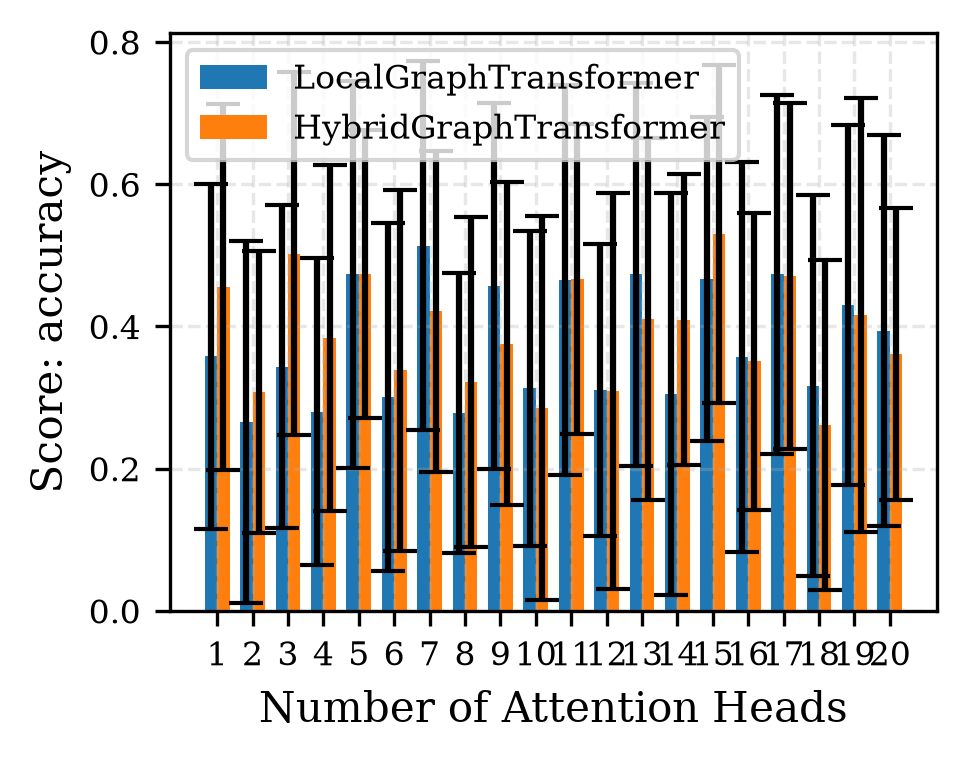
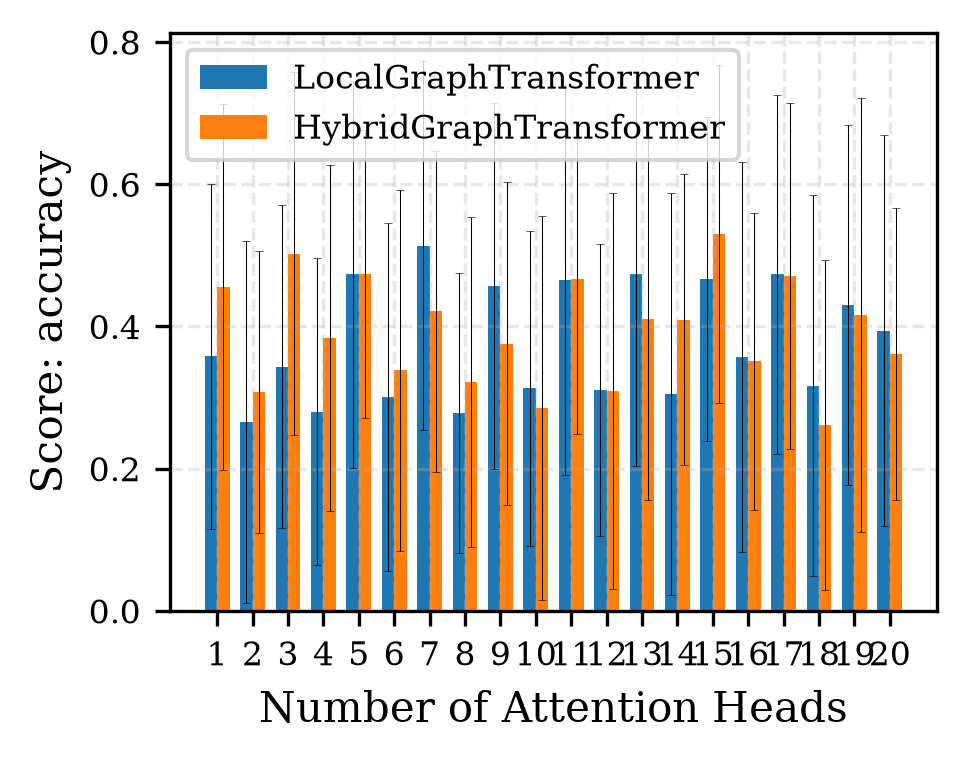
fix to thick error line on bar charts

Changed region(s): [[0.1861, 0.0604, 0.9307, 0.815], [0.7135, 0.0604, 0.7446, 0.0906], [0.2172, 0.1207, 0.2482, 0.1509]]

diff --git a/src/visualize.py b/src/visualize.py
@@ -74,7 +74,7 @@ def create_final_figure(
             std_by_head.append(result[0][1][metric_index])
             heads.append(result[1])
         offset = (i - 0.5) * bar_width
-        ax.bar(np.array(heads) + offset, results_by_head, bar_width, label=model_name, yerr=std_by_head, capsize=4)
+        ax.bar(np.array(heads) + offset, results_by_head, bar_width, label=model_name, yerr=std_by_head, capsize=1, error_kw={"elinewidth": 0.25, "capthick": 0.15})
     
     ax.set_xlabel("Number of Attention Heads")
     ax.set_ylabel(f"Score: {metric_name}")

diff --git a/main.py b/main.py
@@ -50,9 +50,9 @@ def main(
 
 if __name__ == "__main__":
     main(
-        train = True,
-        test = True,
-        final_results = True,
+        train = False,
+        test = False,
+        final_results = False,
         final_figures = True,
         significance = True
     )
